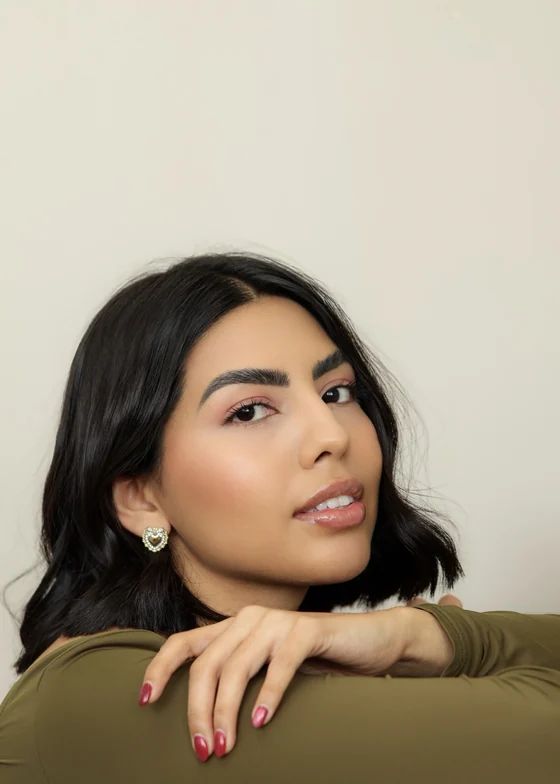
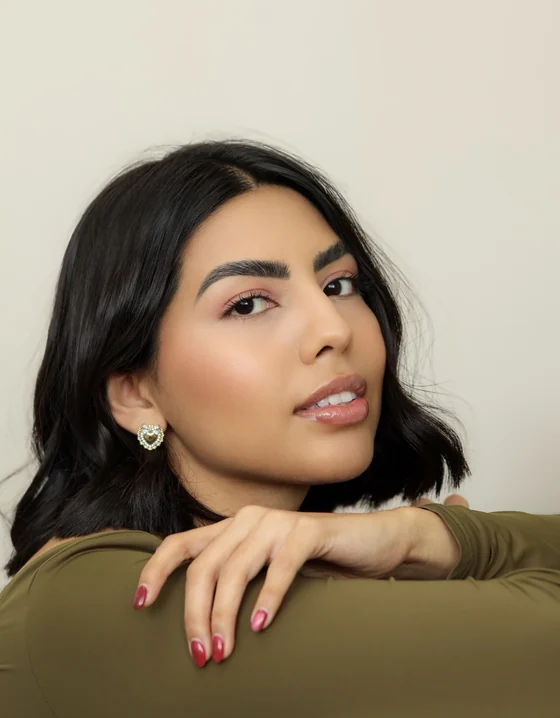
Aperta o enquadramento da foto do hero
Sobrava parede acima da cabeca dentro da moldura — espaco branco que nao
dizia nada e empurrava o rosto para baixo. O corte fecha de dois jeitos:
a moldura fica menos alta (razao de 0,714 para 0,78) e o conteudo sobe
dentro dela (rosto a 26% da altura, em vez de 34%). A parede acima da
cabeca cai de 16% para 10% do quadro.

A razao da moldura e usada em seis tetos de altura no CSS, que existem
para a foto nao deformar nem sobrar borda em janela baixa; os seis
acompanham. A altura declarada no HTML tambem, senao o navegador reserva
o espaco errado antes de a imagem chegar e a pagina pula.

Verificado: 8 telas de 360x800 a 1920x1080, contraste no computador e no
celular, sem JavaScript, com movimento reduzido, no toque e com o Lenis
bloqueado — zero problemas.

Versao do site vai a 22.

Claude-Session: https://claude.ai/code/session_01ErA6uQs8LKc9Lqw5HZYEAA

diff --git a/site/index.html b/site/index.html
@@ -33,8 +33,8 @@
 
 <!-- ?v= força o navegador e a hospedagem a buscarem o arquivo novo em vez de
      servir o antigo do cache. Ao publicar uma alteração, mude o número. -->
-<meta name="versao-do-site" content="21">
-<link rel="stylesheet" href="assets/css/style.css?v=21">
+<meta name="versao-do-site" content="22">
+<link rel="stylesheet" href="assets/css/style.css?v=22">
 
 <script>
 /* Progressive enhancement da animação de entrada.
@@ -156,7 +156,7 @@
                      assets/img/consuelo-hero-900.webp 900w,
                      assets/img/consuelo-hero-1300.webp 1300w"
              sizes="(max-width:900px) 78vw, 42vw"
-             width="900" height="1261" fetchpriority="high"
+             width="900" height="1154" fetchpriority="high"
              alt="Dra. Consuelo Vasconcelos olhando para a câmera, apoiada, em retrato de estúdio">
       </div>
       <figcaption class="selo" data-parallax="-0.04">
@@ -801,7 +801,7 @@
          pergunta ficou sem resposta por várias rodadas enquanto se corrigia
          no escuro. Agora qualquer print do rodapé já responde. O build
          mantém este número igual ao do ?v= e ao do versao.txt. -->
-    <p>© <span data-ano>2026</span> <span data-bind="nome">Dra. Consuelo Vasconcelos</span>. Todos os direitos reservados. <span class="rodape__versao" data-versao-visivel>v21</span></p>
+    <p>© <span data-ano>2026</span> <span data-bind="nome">Dra. Consuelo Vasconcelos</span>. Todos os direitos reservados. <span class="rodape__versao" data-versao-visivel>v22</span></p>
     <p><a href="#inicio">Voltar ao topo</a></p>
   </div>
 </footer>
@@ -841,8 +841,8 @@
   <svg viewBox="0 0 24 24" aria-hidden="true"><path d="M12 19V5M5 12l7-7 7 7"/></svg>
 </button>
 
-<script src="assets/vendor/lenis.min.js?v=21" defer></script>
-<script src="assets/js/config.js?v=21"></script>
-<script src="assets/js/main.js?v=21" defer></script>
+<script src="assets/vendor/lenis.min.js?v=22" defer></script>
+<script src="assets/js/config.js?v=22"></script>
+<script src="assets/js/main.js?v=22" defer></script>
 </body>
 </html>

diff --git a/site/assets/css/style.css b/site/assets/css/style.css
@@ -352,12 +352,12 @@ p{text-wrap:pretty}
    2. Numa janela baixa (notebook com escala do Windows, navegador dentro do
       Instagram) a foto tomava a tela inteira e encostava no menu. O teto de
       altura abaixo impede isso. A largura é derivada da altura pela proporção
-      real da imagem (900/1258 = 0,7154), para não deformar nem sobrar borda. */
+      real da imagem (900/1154 = 0,78), para não deformar nem sobrar borda. */
 .hero__foto{
   position:relative;
   width:100%;min-width:0;
-  max-width:calc(min(80vh,760px) * .7154);
-  max-width:calc(min(80svh,760px) * .7154);   /* svh onde houver; vh é a reserva */
+  max-width:calc(min(80vh,760px) * .78);
+  max-width:calc(min(80svh,760px) * .78);   /* svh onde houver; vh é a reserva */
   margin-inline:auto;
 }
 .hero__foto .foto-enquadrada img{width:100%;max-width:100%;height:auto}
@@ -804,8 +804,8 @@ html:not(.js) .palavra > span{transform:none}
   .hero__foto{
     width:auto;
     margin-inline:calc(var(--gutter) * -1);
-    max-width:min(34rem, calc(min(86vh,820px) * .7154));
-    max-width:min(34rem, calc(min(86svh,820px) * .7154));
+    max-width:min(34rem, calc(min(86vh,820px) * .78));
+    max-width:min(34rem, calc(min(86svh,820px) * .78));
   }
   .selo{
     position:static;max-width:none;
@@ -842,8 +842,8 @@ html:not(.js) .palavra > span{transform:none}
   .hero__selos{margin-top:1.7rem;padding-top:1.3rem}
   /* e a foto nunca passa do que cabe entre o cabeçalho e a dobra */
   .hero__foto{
-    max-width:calc(min(80vh,760px) * .7154);
-    max-width:calc(min(80svh, 760px, 100svh - var(--topo-h) - 3.5rem) * .7154);
+    max-width:calc(min(80vh,760px) * .78);
+    max-width:calc(min(80svh, 760px, 100svh - var(--topo-h) - 3.5rem) * .78);
   }
 }
 
